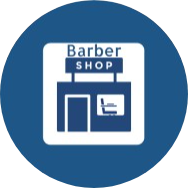
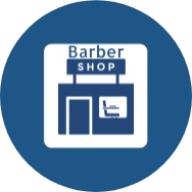
added ios support for PWA, changed email backend to sendgrid

diff --git a/templates/base.html b/templates/base.html
@@ -34,7 +34,7 @@
   <link rel="manifest" href="/static/manifest.webmanifest">
 
   <!-- ios support -->
-  <link rel="apple-touch-icon" href="{% static 'images/icons-192.png' %}">
+  <link rel="apple-touch-icon" href="{% static 'images/icons-192-square.png' %}">
   <meta name='apple-mobile-web-app-status-bar' content='#3367D6'>
 
   <style>
